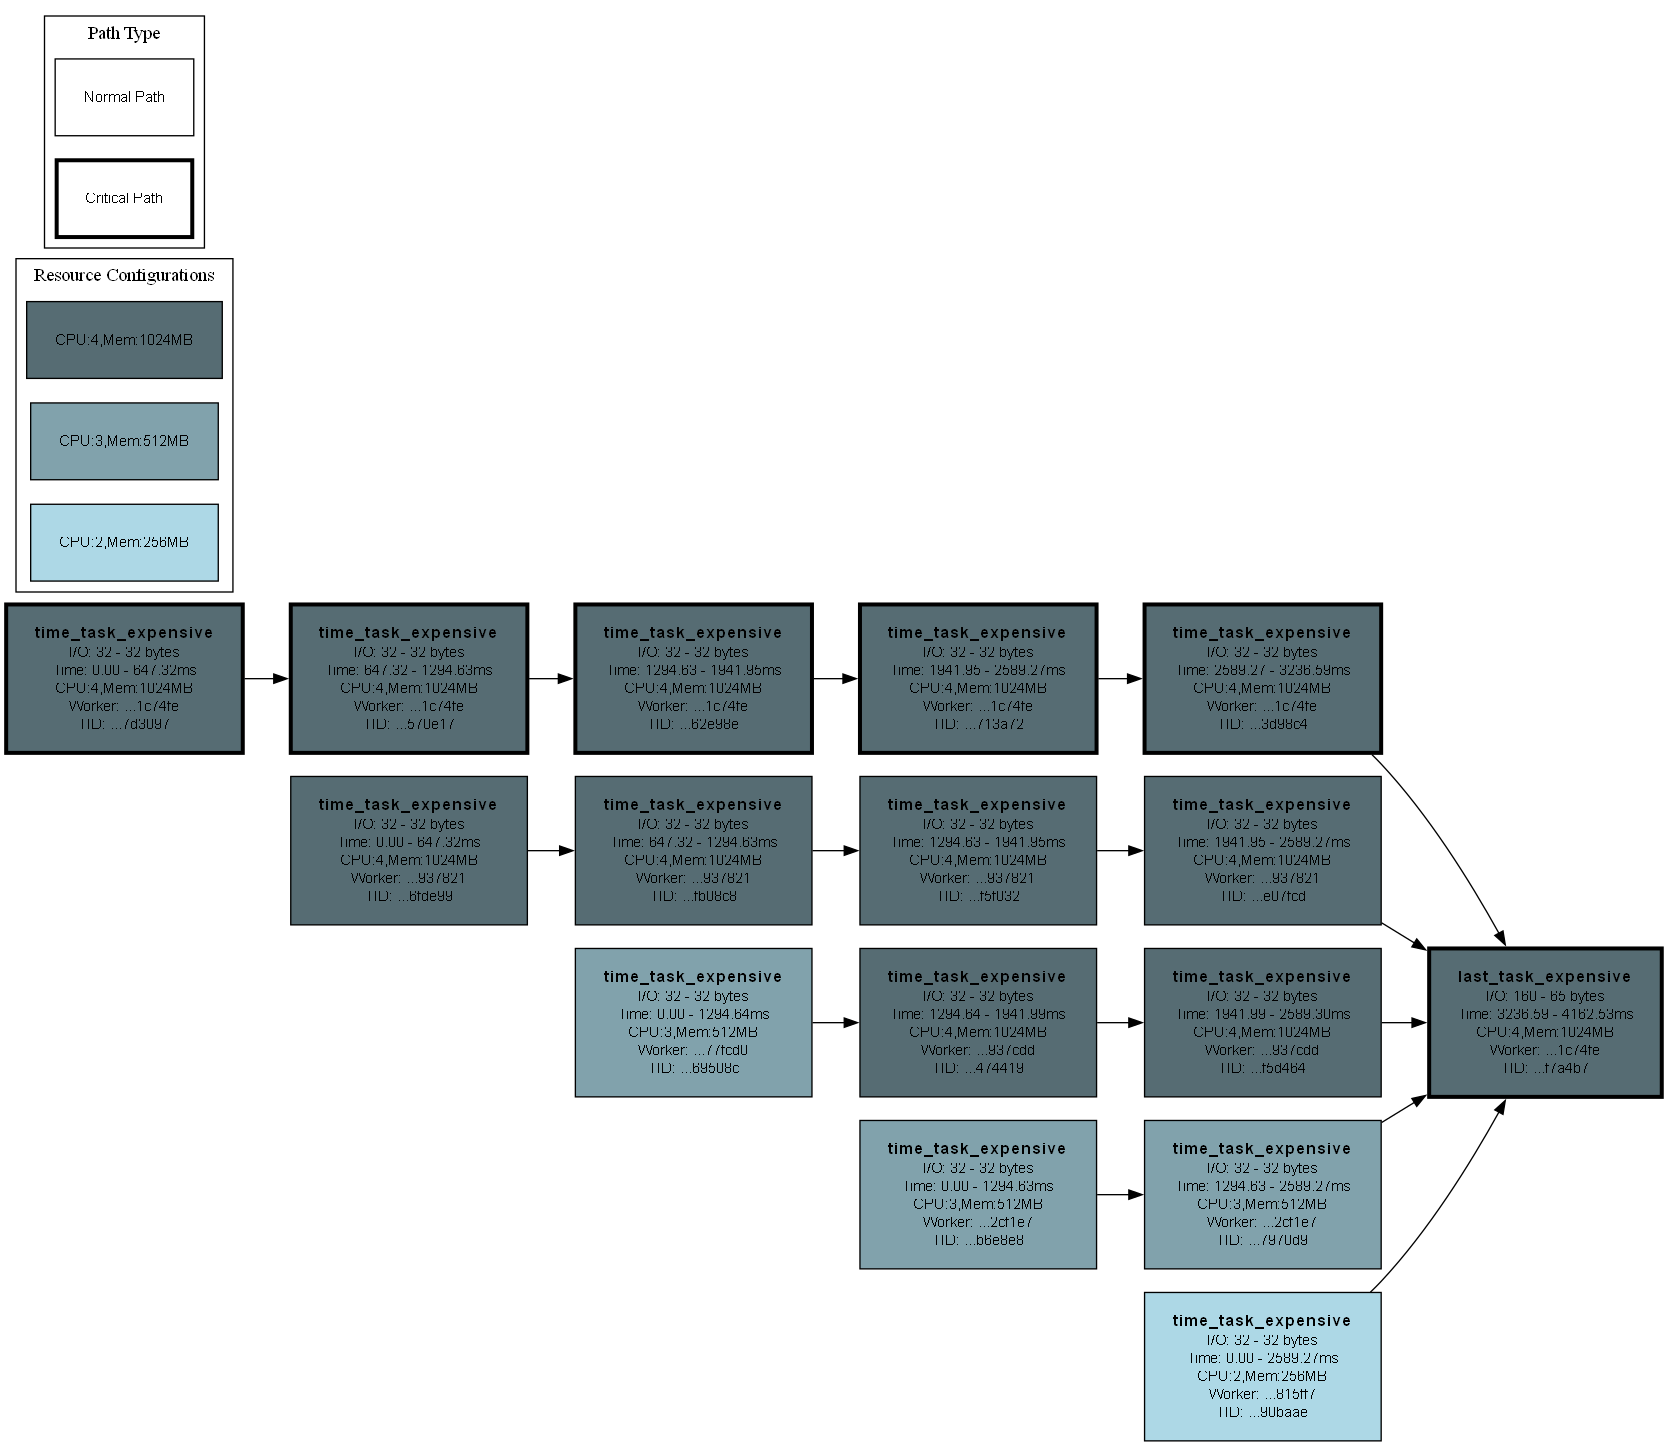
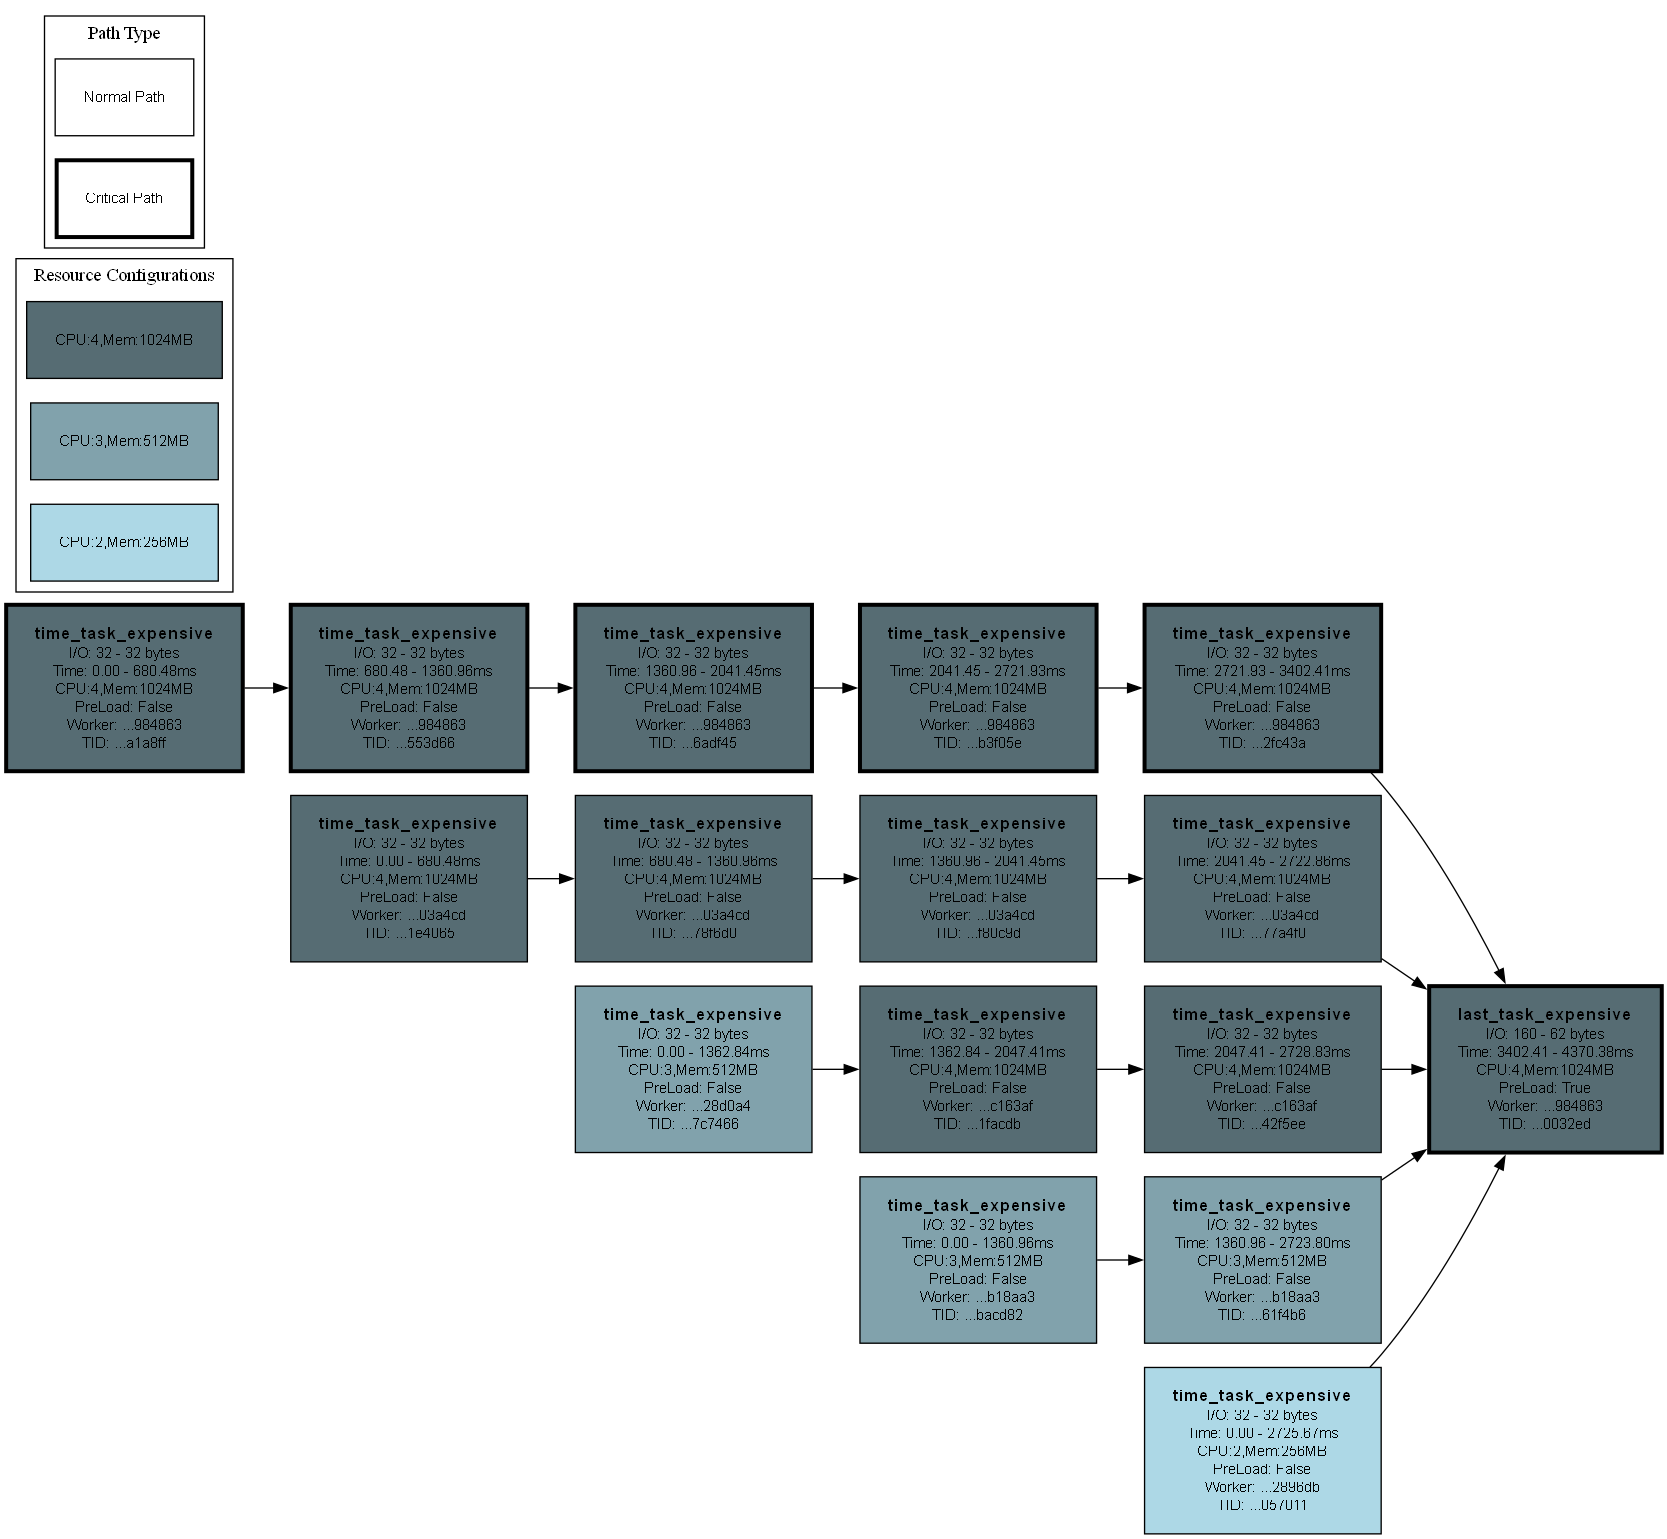
a

diff --git a/src/planning/simple_planner.py b/src/planning/simple_planner.py
@@ -191,12 +191,15 @@ class SimpleDAGPlanner(DAGPlanner, WorkerExecutionLogic):
                     if not annotation.allow_new_preloads: return
                     annotation.preloading_complete_events[upstream_task.id.get_full_id()] = asyncio.Event()
                 
+                logger.info(f"[PRELOADING - STARTED] Task: {upstream_task.id.get_full_id()}")
+
                 task_output = cloudpickle.loads(await intermediate_storage.get(upstream_task.id.get_full_id_in_dag(dag)))
                 # Store the result so that its visible to other coroutines
                 dag.get_node_by_id(upstream_task.id).cached_result = _CachedResultWrapper(task_output)
                 
                 async with annotation._lock:
                     annotation.preloading_complete_events[upstream_task.id.get_full_id()].set()
+                    logger.info(f"[PRELOADING - DONE] Task: {upstream_task.id.get_full_id()}")
             return _callback
 
         _nodes_to_visit = dag.root_nodes
@@ -213,6 +216,7 @@ class SimpleDAGPlanner(DAGPlanner, WorkerExecutionLogic):
             if not preload_annotation: continue
             for unode in current_node.upstream_nodes:
                 if unode.get_annotation(TaskWorkerResourceConfiguration).worker_id == this_worker_id: continue
+                logger.info(f"[PRELOADING - SUBSCRIBING] Task: {unode.id.get_full_id()} | Dependent task: {current_node.id.get_full_id()}")
                 await intermediate_storage.subscribe(
                     f"{TASK_COMPLETION_EVENT_PREFIX}{unode.id.get_full_id_in_dag(dag)}", 
                     _on_preload_task_completed_builder(unode, preload_annotation, intermediate_storage, dag)
@@ -231,16 +235,18 @@ class SimpleDAGPlanner(DAGPlanner, WorkerExecutionLogic):
             async with preload_annotation._lock:
                 preload_annotation.allow_new_preloads = False
                 for utask_id, preloading_event in preload_annotation.preloading_complete_events.items():
+                    logger.info(f"[HANDLE_INPUTS - IS PRELOADING] Task: {utask_id} | Dependent task: {task.id.get_full_id()}")
                     __tasks_preloading_coroutines[utask_id] = asyncio.create_task(preloading_event.wait())
 
         for t in task.upstream_nodes:
             if t.cached_result is None and t.id.get_full_id() not in __tasks_preloading_coroutines:
+                logger.info(f"[HANDLE_INPUTS - NEED FETCHING] Task: {t.id.get_full_id()} | Dependent task: {task.id.get_full_id()}")
                 upstream_tasks_to_fetch.append(t)
                 
         async def _fetch_dependency_data(dependency_task, subdag, intermediate_storage):
             fotimer = Timer()
             task_output = await intermediate_storage.get(dependency_task.id.get_full_id_in_dag(subdag))
-            if task_output is None: raise Exception(f"[BUG] Task {dependency_task.id.get_full_id_in_dag(subdag)}'s data is not available")
+            if task_output is None: raise Exception(f"[ERROR] Task {dependency_task.id.get_full_id_in_dag(subdag)}'s data is not available")
             input_fetch_time = fotimer.stop()
             loaded_data = cloudpickle.loads(task_output)
             return (

diff --git a/src/docker_workers_gateway/handler.py b/src/docker_workers_gateway/handler.py
@@ -44,15 +44,16 @@ def process_job_async(resource_configuration: TaskWorkerResourceConfiguration, b
 
     container_id = container_pool.wait_for_container(cpus=resource_configuration.cpus, memory=resource_configuration.memory_mb)
     try:
-        logger.info(f"[{get_time_formatted()}] EXECUTING IN CONTAINER: {container_id} | command length: {len(command)}") 
         exit_code = container_pool.execute_command_in_container(container_id, command)
         if exit_code == 0:
             # print(f"[{get_time_formatted()}] {job_id}) COMPLETED in container: {container_id}")
             return
         else:
-            logger.error(f"[{get_time_formatted()}] {job_id}) [BUG] Container {container_id} should be available but exit_code={exit_code}")
+            logger.error(f"[{get_time_formatted()}] {job_id}) [ERROR] Container {container_id} should be available but exit_code={exit_code}")
     except Exception as e:
-        logger.error(f"[{get_time_formatted()}] {job_id}) [BUG] Exception: {e}")
+        logger.error(f"[{get_time_formatted()}] {job_id}) [ERROR] Exception: {e}")
+    finally:
+        container_pool.release_container(container_id)
 
 
 @app.route('/job', methods=['POST', 'GET'])
@@ -68,15 +69,25 @@ def handle_job():
         data = request.get_json()
 
         resource_config_key = data.get('resource_configuration', None)
-        if resource_config_key is None: return jsonify({"error": "'resource_configuration' field is required"}), 400
+        if resource_config_key is None: 
+            logger.error("'resource_configuration' field is required")
+            return jsonify({"error": "'resource_configuration' field is required"}), 400
         resource_configuration: TaskWorkerResourceConfiguration | None = cloudpickle.loads(base64.b64decode(resource_config_key))
-        if resource_configuration is None: return jsonify({"error": "'resource_configuration' field is required"}), 400
+        if resource_configuration is None: 
+            logger.error("'resource_configuration' field is required")
+            return jsonify({"error": "'resource_configuration' field is required"}), 400
         dag_id = data.get('dag_id', None)
-        if dag_id is None: return jsonify({"error": "'dag_id' field is required"}), 400
+        if dag_id is None: 
+            logger.error("'dag_id' field is required")
+            return jsonify({"error": "'dag_id' field is required"}), 400
         b64_task_ids = data.get('task_ids', None)
-        if b64_task_ids is None: return jsonify({"error": "'task_id' field is required"}), 400
+        if b64_task_ids is None: 
+            logger.error("'task_id' field is required")
+            return jsonify({"error": "'task_id' field is required"}), 400
         b64config = data.get('config', None)
-        if b64config is None: return jsonify({"error": "'config' field is required"}), 400
+        if b64config is None: 
+            logger.error("'config' field is required")
+            return jsonify({"error": "'config' field is required"}), 400
 
         thread_pool.submit(process_job_async, resource_configuration, b64config, dag_id, b64_task_ids)
         

diff --git a/src/workers/worker_execution_logic.py b/src/workers/worker_execution_logic.py
@@ -44,7 +44,7 @@ class WorkerExecutionLogic():
         async def _fetch_dependency_data(dependency_task, subdag, intermediate_storage):
             fotimer = Timer()
             task_output = await intermediate_storage.get(dependency_task.id.get_full_id_in_dag(subdag))
-            if task_output is None: raise Exception(f"[BUG] Task {dependency_task.id.get_full_id_in_dag(subdag)}'s data is not available")
+            if task_output is None: raise Exception(f"[ERROR] Task {dependency_task.id.get_full_id_in_dag(subdag)}'s data is not available")
             input_fetch_time = fotimer.stop()
             loaded_data = cloudpickle.loads(task_output)
             return (
@@ -83,7 +83,7 @@ class WorkerExecutionLogic():
         task_result_output_time_ms = output_upload_timer.stop()
         #! Can be optimized, don't need to always be sending this
         receivers = await metadata_storage.publish(f"{TASK_COMPLETION_EVENT_PREFIX}{task.id.get_full_id_in_dag(subdag)}", b"1")
-        logger.info(f"Receivers for completion of task {task.id.get_full_id_in_dag(subdag)}: {receivers}")
+        # logger.info(f"Receivers for completion of task {task.id.get_full_id_in_dag(subdag)}: {receivers}")
         return task_result_output_time_ms
 
     @staticmethod
@@ -117,7 +117,7 @@ class WorkerExecutionLogic():
         total_invocations_count = len(other_continuation_tasks)
 
         if len(other_continuation_tasks) > 0:
-            logger.info(_this_worker.my_resource_configuration.worker_id, f"Delegating {len(other_continuation_tasks)} tasks to other workers...")
+            logger.info(f"Worker({_this_worker.my_resource_configuration.worker_id}) Delegating {len(other_continuation_tasks)} tasks to other workers...")
             coroutines.append(_this_worker.delegate([subdag.create_subdag(t) for t in other_continuation_tasks], called_by_worker=True))
             await asyncio.gather(*coroutines) # wait for the delegations to be accepted
 

diff --git a/src/docker_workers_gateway/container_pool_executor.py b/src/docker_workers_gateway/container_pool_executor.py
@@ -34,6 +34,9 @@ class ContainerPoolExecutor:
         self.cleanup_thread.start()
         self._remove_all_containers()
 
+    def _get_time_formatted(self):
+        return time.strftime("%Y-%m-%d %H:%M:%S", time.localtime())
+    
     def execute_command_in_container(self, container_id, command):
         """
         Executes a command in the specified container and returns the exit code.
@@ -43,6 +46,8 @@ class ContainerPoolExecutor:
             self.containers[container_id].last_active_time = time.time()
             self.containers[container_id].is_busy = True
         
+        logger.info(f"[{self._get_time_formatted()}] EXECUTING IN CONTAINER: {container_id} | command length: {len(command)}") 
+
         result = subprocess.run(
             ["docker", "exec", "-i", container_id, "sh"],
             input=command.encode(),
@@ -128,7 +133,13 @@ class ContainerPoolExecutor:
                     del self.containers[container_id]
         except subprocess.CalledProcessError as e:
             logger.error(f"Error removing container {container_id}: {e}")
-            
+        
+
+    def release_container(self, container_id: str):
+        with self.lock:
+            if container_id in self.containers:
+                self.containers[container_id].is_busy = False
+
     def wait_for_container(self, cpus: float, memory: int) -> str:
         """
         Wait for a container with the specified resources to become available,

diff --git a/src/dag_task_node.py b/src/dag_task_node.py
@@ -170,7 +170,7 @@ class DAGTaskNode(Generic[R]):
 
         for arg in self.func_args:
             if isinstance(arg, DAGTaskNodeId):
-                if arg.get_full_id() not in dependencies: raise Exception(f"[BUG] Output of {arg.get_full_id()} not in dependencies")
+                if arg.get_full_id() not in dependencies: raise Exception(f"[ERROR] Output of {arg.get_full_id()} not in dependencies")
                 final_func_args.append(dependencies[arg.get_full_id()])
             elif isinstance(arg, list) and all(isinstance(item, DAGTaskNodeId) for item in arg):
                 final_func_args.append([dependencies[item.get_full_id()] for item in arg])
@@ -179,7 +179,7 @@ class DAGTaskNode(Generic[R]):
 
         for key, value in self.func_kwargs.items():
             if isinstance(value, DAGTaskNodeId):
-                if value.get_full_id() not in dependencies: raise Exception(f"[BUG] Output of {value.get_full_id()} not in dependencies")
+                if value.get_full_id() not in dependencies: raise Exception(f"[ERROR] Output of {value.get_full_id()} not in dependencies")
                 final_func_kwargs[key] = dependencies[value.get_full_id()]
             elif isinstance(value, list) and all(isinstance(item, DAGTaskNodeId) for item in value):
                 final_func_kwargs[key] = [dependencies[item.get_full_id()] for item in value]

diff --git a/src/planning/dag_planner.py b/src/planning/dag_planner.py
@@ -5,6 +5,7 @@ from graphviz import Digraph
 from src import dag_task_node
 from src.dag_task_annotation import TaskAnnotation
 from src.dag_task_node import DAGTaskNode
+from src.planning.annotations.preload import PreLoad
 from src.planning.metadata_access.metadata_access import MetadataAccess
 from src.planning.sla import SLA
 from src.utils.logger import create_logger
@@ -331,6 +332,7 @@ class DAGPlanner(ABC):
                     f"<TR><TD><FONT POINT-SIZE='11'>I/O: {node_info.input_size if node_info else 0} - {node_info.output_size if node_info else 0} bytes</FONT></TD></TR>" \
                     f"<TR><TD><FONT POINT-SIZE='11'>Time: {node_info.earliest_start if node_info else 0:.2f} - {node_info.path_completion_time if node_info else 0:.2f}ms</FONT></TD></TR>" \
                     f"<TR><TD><FONT POINT-SIZE='11'>{config_key}</FONT></TD></TR>" \
+                    f"<TR><TD><FONT POINT-SIZE='11'>PreLoad: {node.try_get_annotation(PreLoad) is not None}</FONT></TD></TR>" \
                     f"<TR><TD><FONT POINT-SIZE='11'>Worker: ...{node.get_annotation(TaskWorkerResourceConfiguration).worker_id[-6:]}</FONT></TD></TR>" \
                     f"<TR><TD><FONT POINT-SIZE='11'>TID: ...{node.id.get_full_id()[-6:]}</FONT></TD></TR>" \
                     f"</TABLE>>"

diff --git a/src/workers/docker_worker.py b/src/workers/docker_worker.py
@@ -43,7 +43,7 @@ class DockerWorker(Worker):
             # this function only delegates N tasks to 1 worker, so the config should be the same for all tasks
             targetWorkerResourcesConfig = worker_subdags[0].root_node.get_annotation(TaskWorkerResourceConfiguration)
             gateway_address = "http://host.docker.internal:5000" if called_by_worker else self.docker_config.docker_gateway_address
-            logger.info(f"Invoking docker gateway ({gateway_address}) | Resource Configuration: {targetWorkerResourcesConfig}")
+            logger.info(f"Invoking docker gateway ({gateway_address}) | CPUs: {targetWorkerResourcesConfig.cpus} | Memory: {targetWorkerResourcesConfig.memory_mb} | Worker ID: {worker_id} | Root Tasks: {[subdag.root_node.id.get_full_id() for subdag in worker_subdags]}")
             async with aiohttp.ClientSession() as session:
                 async with await session.post(
                     gateway_address + "/job",

diff --git a/TODO.md b/TODO.md
@@ -1,26 +1,12 @@
-- PreLoad Annotation
-    [DONE] overrides `WEL.on_worker_ready(...)` (called for all fulldag annotations at the end of worker.__init__())
-        - `pubsub.subscribe` to the `READY` events for all the `upstream_tasks` from **DIFFERENT** workers
-        - on `READY` => download the data from `intermediate_storage` => store it on `.cached_result` + `.completed_event.set()`
-        **EXPECTED EFFECT**: worker logic will see the data is cached and won't go to external storage
-    [DONE] overrides `WEL.override_handle_inputs(...)`:
-        - if `pre-loading` is already happening for an input task (asyncioevent on the annotation itself):
-            Download the inputs that are not being `preloaded` + wait for the `preloading` to finish
-    
-    [DONE] How will the `worker` call the `on_worker_ready()` overrides of the annotations?
-        go through all the tasks annotations and execute their `on_worker_ready()`
-        check if overriden as before
-
-    [DONE] How will the `worker` call the overriden stuff of the annotations?
-        task can have N annotations, each implementing `overrides`
-        find the first task that `OVERRIDES` the given stage
-        check if overriden as before
-
 - [TEST]
-    - Make a planning and check if it is adding preload to any tasks
-        (print it on the image)
     - Add logs to see preloading in action
         seeing if preloading was already ongoing, etc... (`simpleplanner.override_handle_inputs()`)
+        test pre-load for wordcount as well
+            see image
+            see logs
+
+- [BUG] Some workers remain active after executing
+    On `expensive` workflow, 6 workers are launched but only see 5 logs of Worker Started + it remains active
 
 - RUN auto tests
 - RUN manual tests
